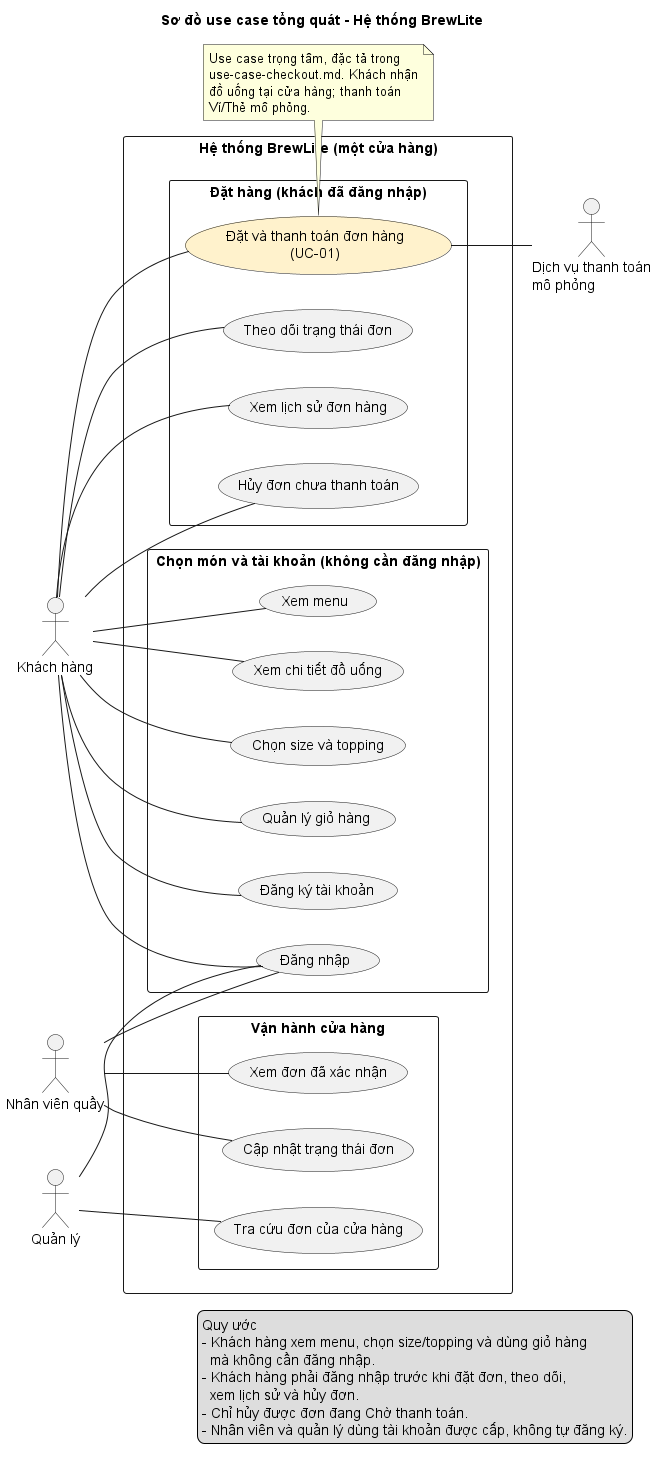
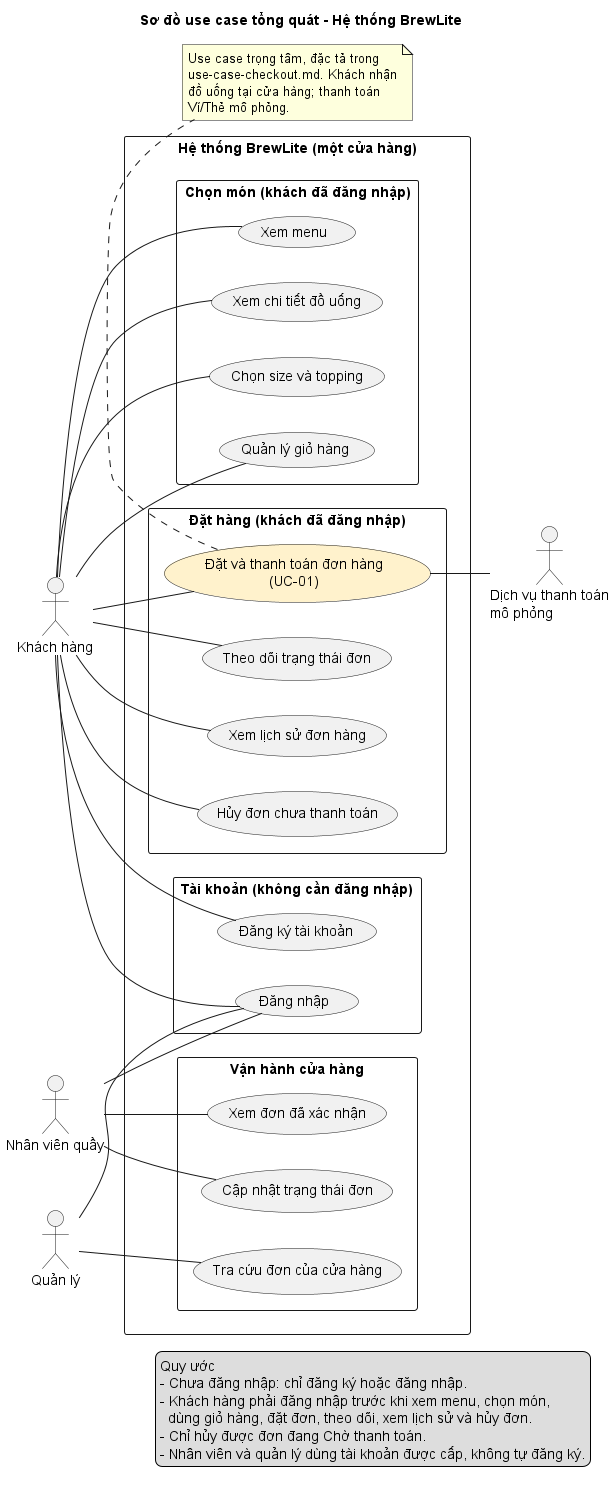
docs(task1.3): yêu cầu đăng nhập trước khi xem menu và đặt món
Lý do: nhóm thống nhất khách phải đăng nhập mới xem được menu và đặt món.
- Sơ đồ tổng quát: tách nhóm Tài khoản (không cần đăng nhập) và Chọn món (đã đăng nhập)
- Đặc tả UC-01: tiền điều kiện đã đăng nhập; A1 đổi thành phiên đăng nhập hết hạn
- Sơ đồ UC-01: extend Đăng nhập lại khi phiên hết hạn

diff --git a/docs/requirements/use-case-checkout.md b/docs/requirements/use-case-checkout.md
@@ -10,7 +10,7 @@ Tệp nguồn: [`../diagrams/usecase-checkout.puml`](../diagrams/usecase-checkou
 
 | Actor | Loại | Vai trò trong use case |
 |---|---|---|
-| Khách hàng | Actor chính | Xác nhận đặt đơn từ giỏ hàng và thanh toán. Phải đăng nhập với vai trò `CUSTOMER` trước khi đơn được tạo. |
+| Khách hàng | Actor chính | Đã đăng nhập với vai trò `CUSTOMER`; xác nhận đặt đơn từ giỏ hàng và thanh toán. |
 | Dịch vụ thanh toán mô phỏng | Actor phụ | Nhận yêu cầu thanh toán Ví/Thẻ mô phỏng và trả kết quả thành công hoặc thất bại. |
 
 ## 3. Trigger
@@ -19,8 +19,8 @@ Khách hàng chọn **Đặt hàng** tại trang giỏ hàng.
 
 ## 4. Tiền điều kiện
 
-1. Khách hàng đang ở trang giỏ hàng (có thể chưa đăng nhập).
-2. Giỏ hàng có ít nhất một món kèm tùy chọn đã chọn.
+1. Khách hàng đã đăng nhập với vai trò `CUSTOMER` (nhóm quy định phải đăng nhập mới xem được menu và đặt món).
+2. Khách hàng đang ở trang giỏ hàng; giỏ hàng có ít nhất một món kèm tùy chọn đã chọn.
 
 ## 5. Hậu điều kiện
 
@@ -34,7 +34,7 @@ Khách hàng chọn **Đặt hàng** tại trang giỏ hàng.
 
 1. Khách hàng mở giỏ hàng, xem món, tùy chọn, số lượng và tổng tạm tính.
 2. Khách hàng chọn **Đặt hàng**.
-3. Hệ thống kiểm tra khách đã đăng nhập, phiên đăng nhập còn hiệu lực và vai trò là `CUSTOMER`.
+3. Hệ thống kiểm tra phiên đăng nhập (JWT) còn hiệu lực và vai trò là `CUSTOMER`.
 4. Hệ thống hiển thị thông tin đơn trước khi xác nhận: món, size, topping, số lượng và tổng tạm tính.
 5. Khách hàng kiểm tra thông tin và xác nhận đặt đơn.
 6. Hệ thống kiểm tra món, size, topping, số lượng và tồn kho; tính tổng tiền theo dữ liệu phía máy chủ.
@@ -47,10 +47,10 @@ Khách hàng chọn **Đặt hàng** tại trang giỏ hàng.
 
 ## 7. Luồng thay thế
 
-**A1 — Chưa đăng nhập hoặc phiên đăng nhập hết hạn (bước 3)**
-1. Hệ thống yêu cầu khách đăng nhập (hoặc đăng ký nếu chưa có tài khoản) và giữ nguyên giỏ hàng.
-2. Đăng nhập thành công: khách thấy lại các món đã chọn; quay lại bước 3.
-3. Đăng nhập thất bại hoặc khách bỏ dở: use case kết thúc, không tạo đơn.
+**A1 — Phiên đăng nhập hết hạn hoặc không còn hợp lệ (bước 3)**
+1. Hệ thống từ chối yêu cầu đặt đơn, yêu cầu khách đăng nhập lại và giữ nguyên giỏ hàng.
+2. Đăng nhập lại thành công: khách thấy lại các món đã chọn; quay lại bước 3.
+3. Đăng nhập lại thất bại hoặc khách bỏ dở: use case kết thúc, không tạo đơn.
 
 **A2 — Thanh toán thất bại (bước 11)**
 1. Dịch vụ thanh toán mô phỏng trả kết quả **thất bại**.
@@ -93,7 +93,7 @@ Khách hàng chọn **Đặt hàng** tại trang giỏ hàng.
 | FR-18 | Nhận diện yêu cầu đặt đơn gửi lại | E4 |
 | FR-22 | Cung cấp và xác nhận thông tin cần thiết khi đặt hàng | 4, 5, E1 |
 | FR-04, FR-05, FR-19 | Thêm, sửa, xóa món trong giỏ (use case khác, tạo tiền điều kiện) | Tiền điều kiện 2, 1 |
-| FR-20, FR-21 | Đăng ký, đăng nhập | A1 |
+| FR-21 | Đăng nhập (tiền điều kiện) và đăng nhập lại | Tiền điều kiện 1, A1 |
 | FR-23 | Hủy đơn chưa thanh toán (use case khác) | A2.5 |
 | NFR-02 | Bảo mật xác thực JWT và phân quyền | 3, E8 |
 | NFR-04 | Backend kiểm tra dữ liệu đầu vào | 6, E1 |
